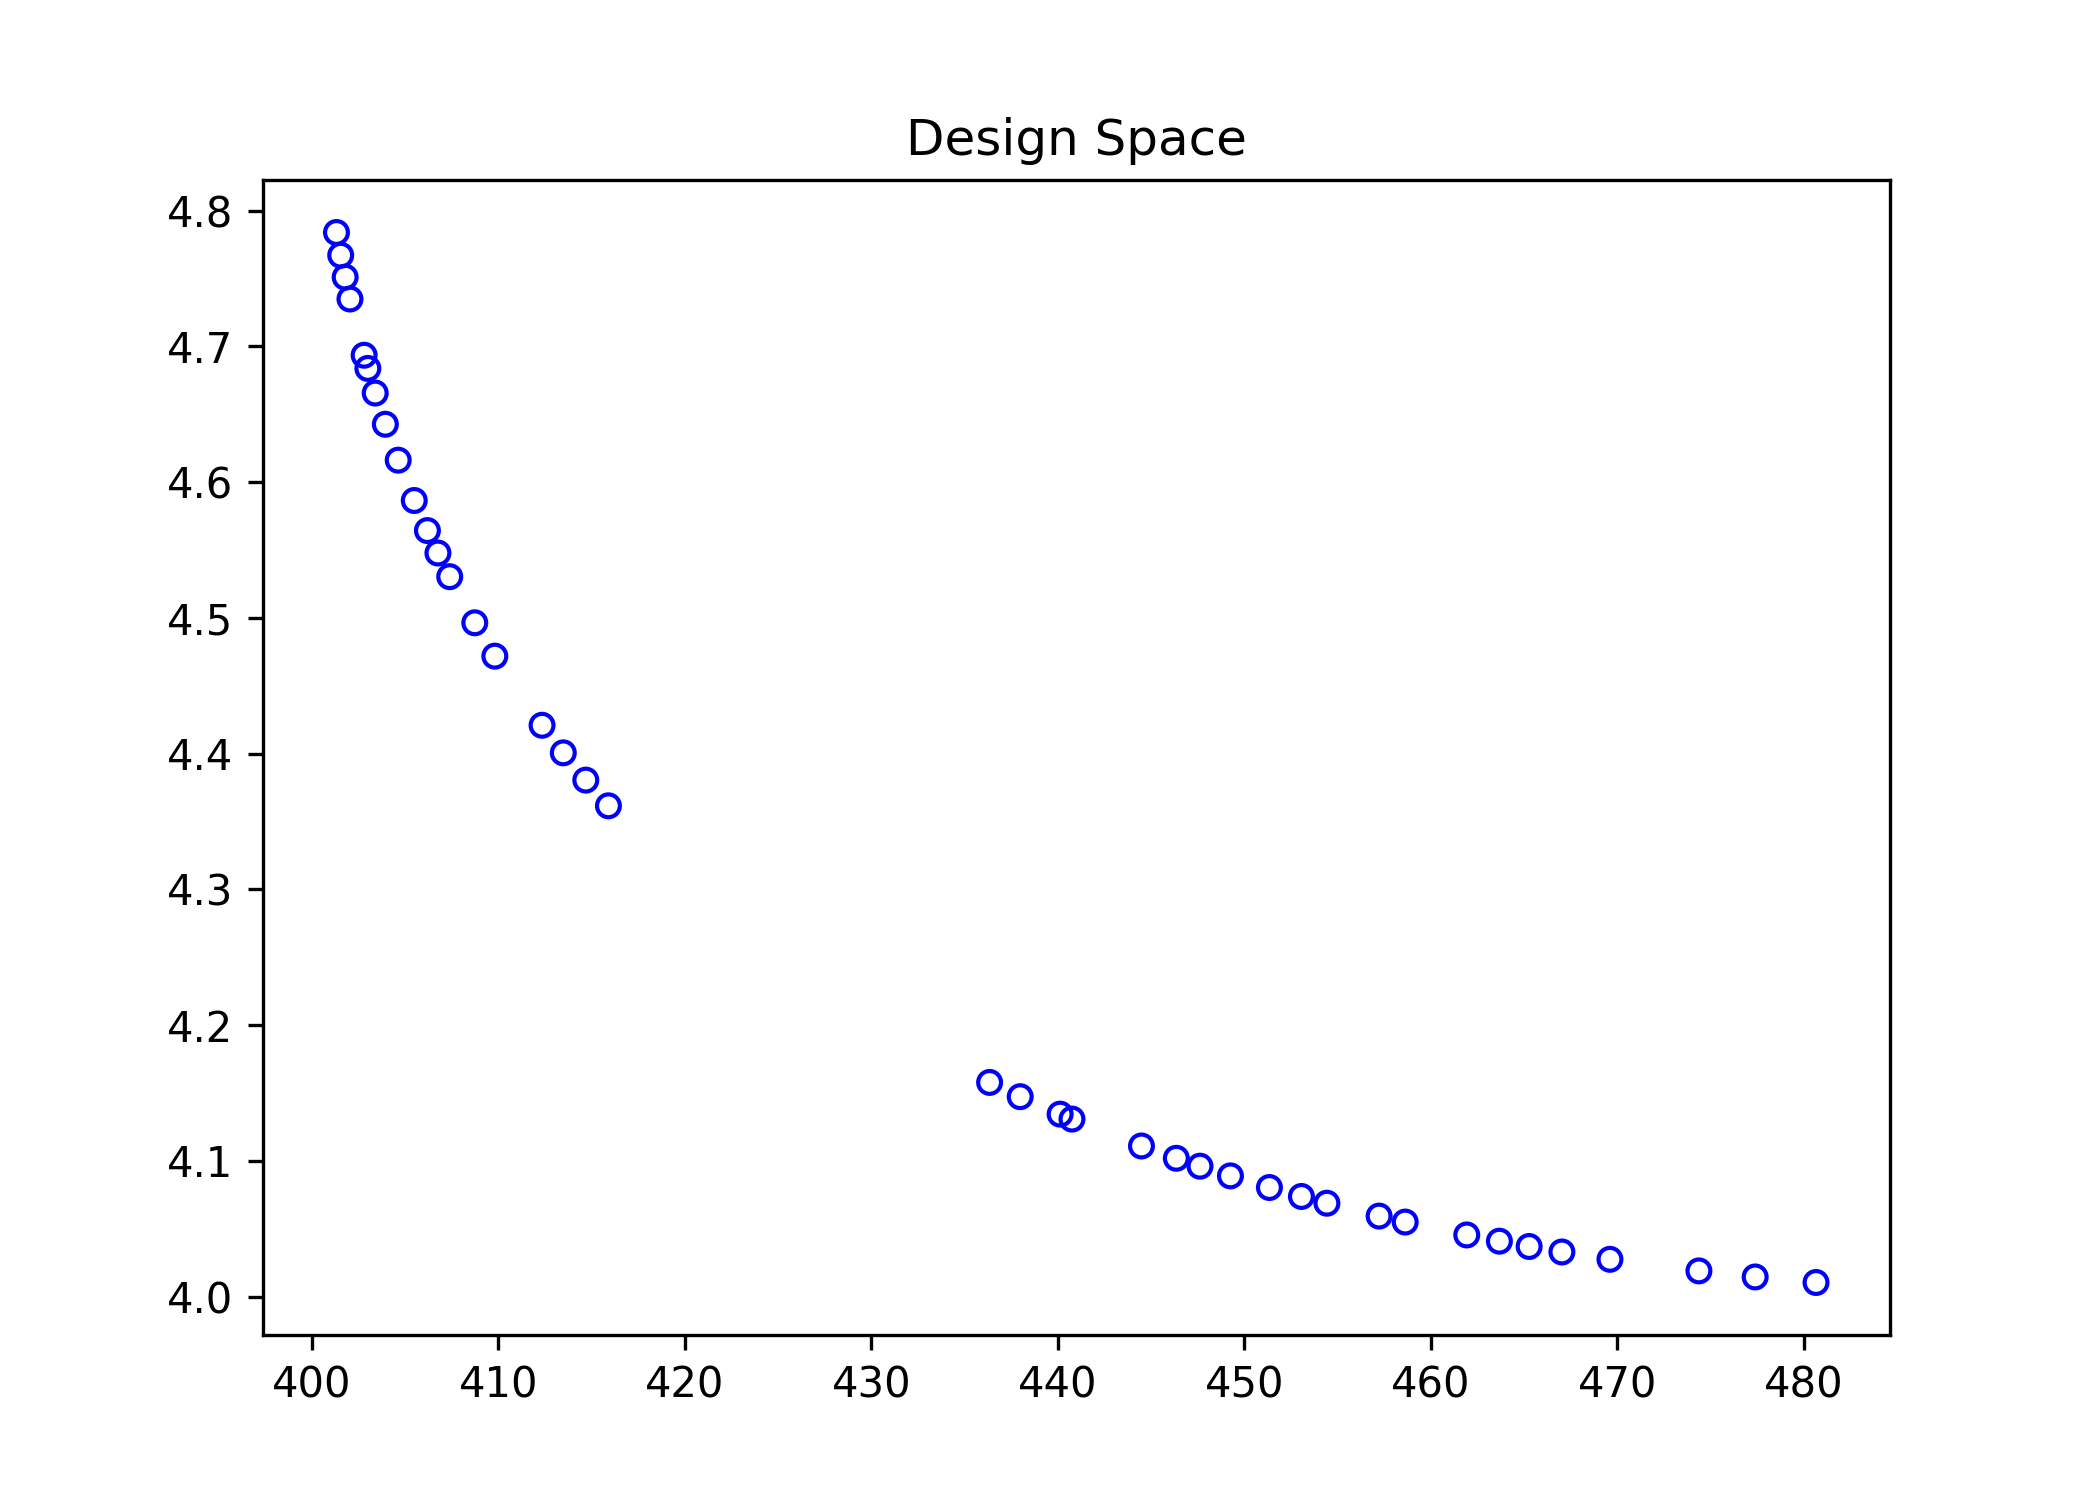
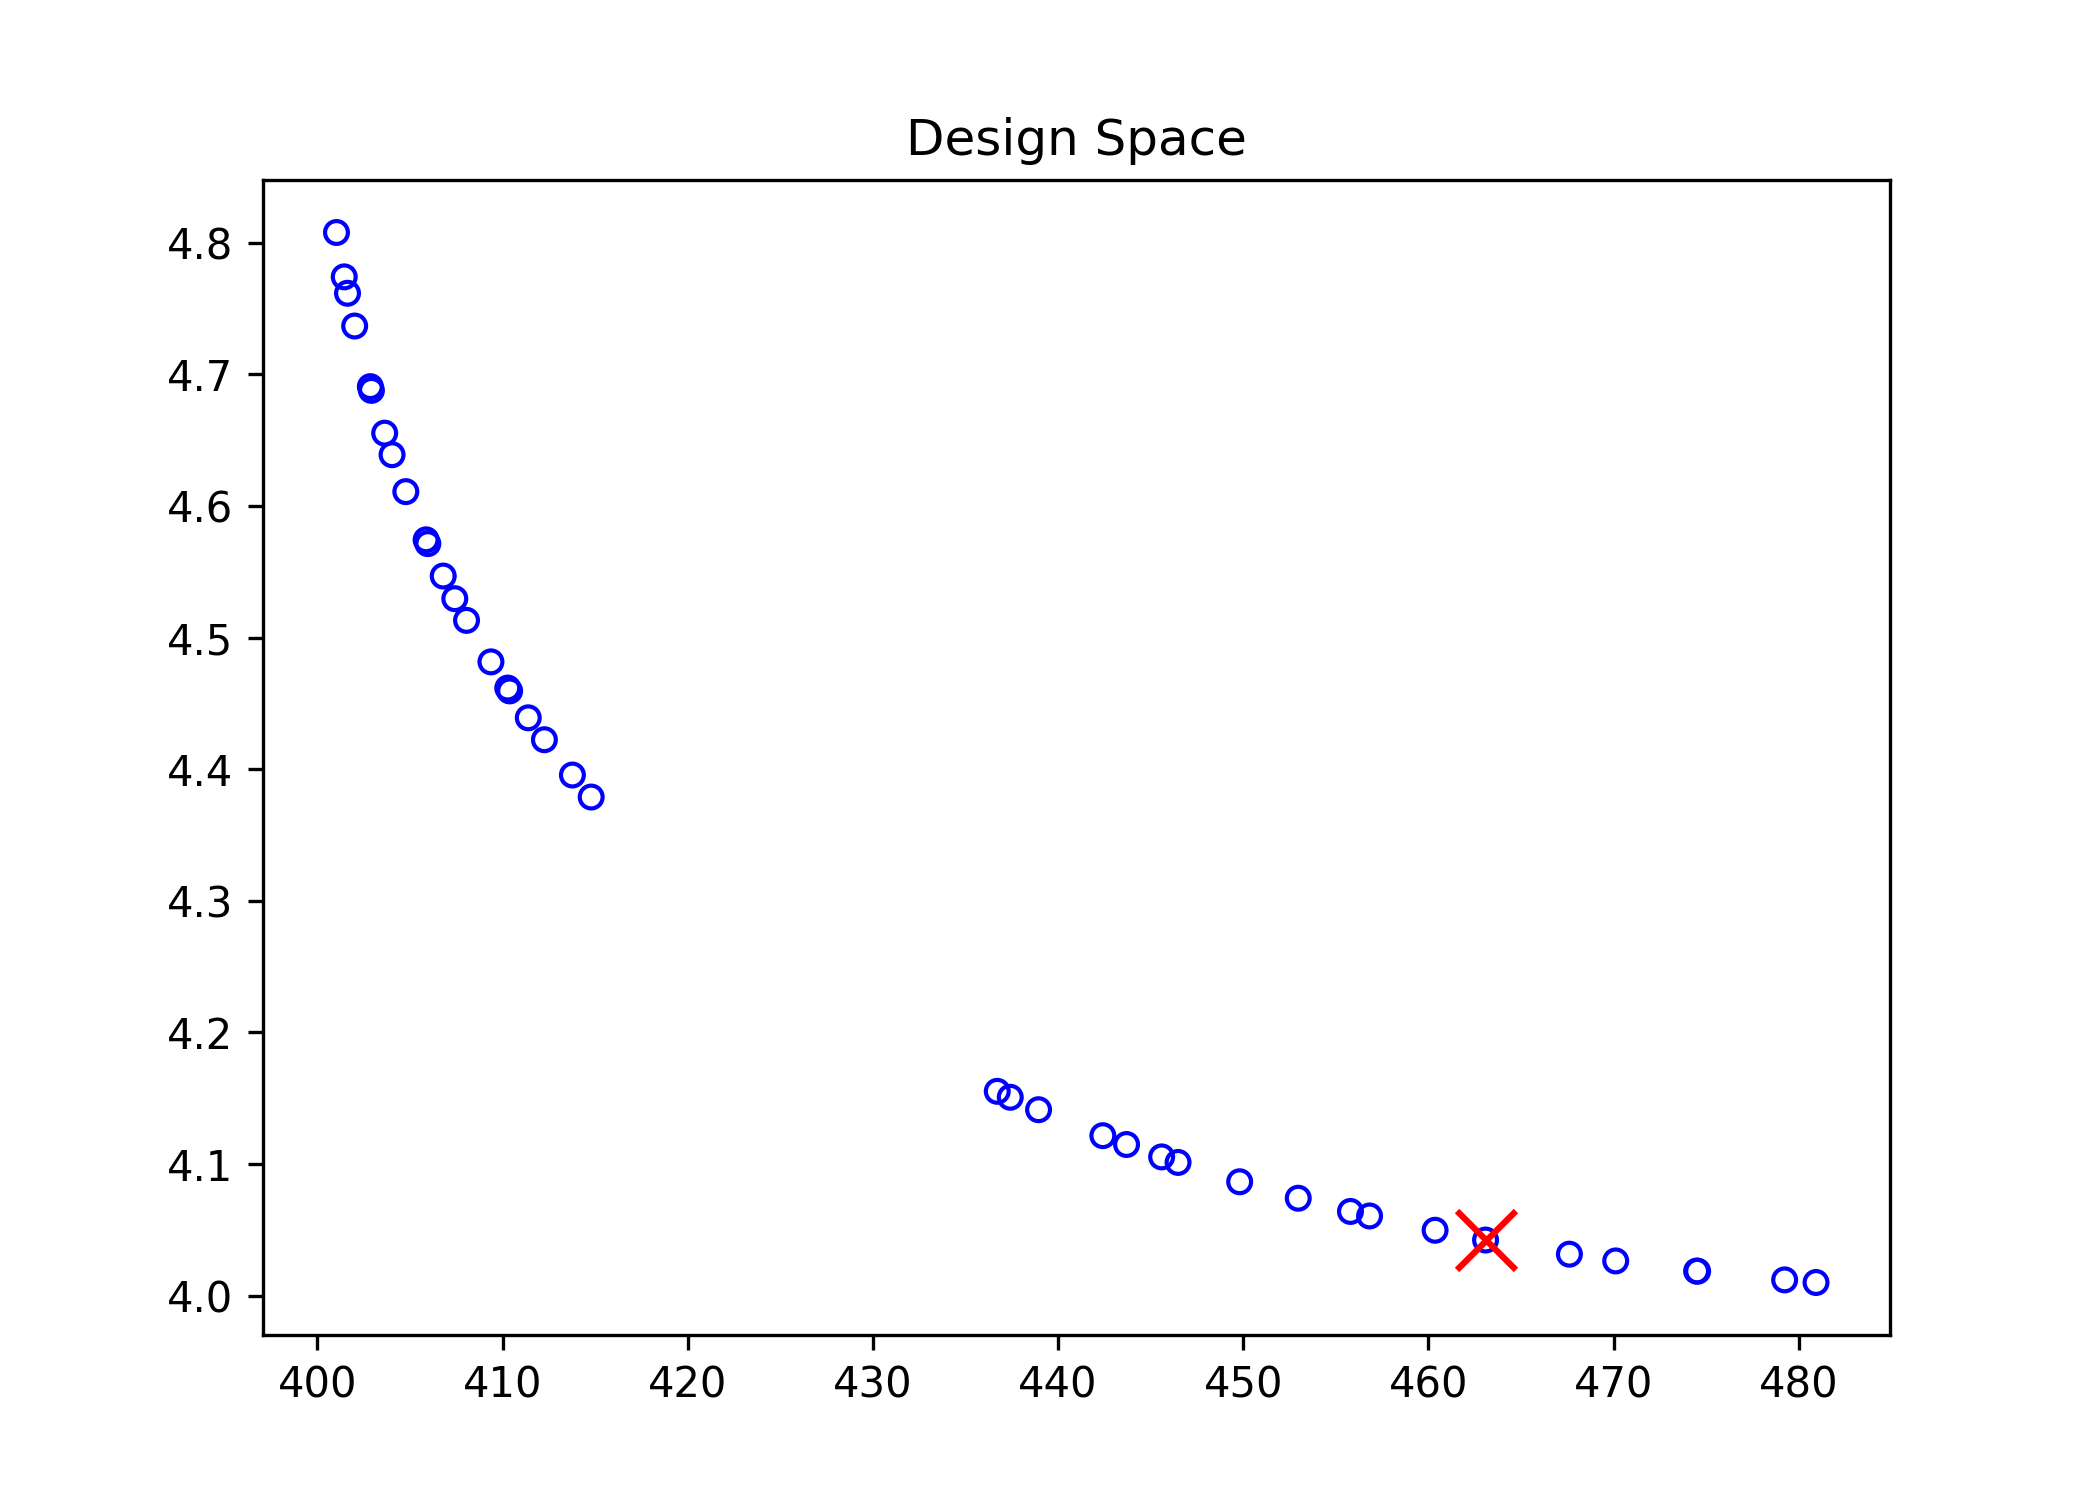
增加readme

diff --git a/step3/multiCriteria1.py b/step3/multiCriteria1.py
@@ -8,7 +8,6 @@ from pymoo.operators.mutation.pm import PM
 from pymoo.operators.sampling.rnd import FloatRandomSampling
 from pymoo.termination import get_termination
 from pymoo.optimize import minimize
-from pymoo.mcdm.pseudo_weights import PseudoWeights
 from pymoo.decomposition.asf import ASF
 
 
@@ -53,8 +52,10 @@ approx_ideal = F.min(axis=0)
 approx_nadir = F.max(axis=0)
 nF = (F - approx_ideal) / (approx_nadir - approx_ideal)
 #ASF（Achievement Scalarizing Function）是一种常用的多目标优化问题
-#的分解方法，它通过引入一个参考点和一个权重向量，将多目标优化问题转化为单目标优化问题，从而简化优化过程
+#的分解方法，它通过引入一个参考点和一个权重向量，将多目标优化问题转化
+#为单目标优化问题，从而简化优化过程
 decomp = ASF()
+
 i = decomp(nF, 1/weights).argmin()
 
 plt.figure(figsize=(7, 5))

diff --git a/step3/multiCriteria2.py b/step3/multiCriteria2.py
@@ -57,7 +57,11 @@ nF = (F - approx_ideal) / (approx_nadir - approx_ideal)
 # 式将多个目标函数合并成一个目标函数，从而简化优化过程
 i = PseudoWeights(weights).do(nF)
 
+
 plt.figure(figsize=(7, 5))
 plt.scatter(F[:, 0], F[:, 1], s=30, facecolors='none', edgecolors='blue')
+plt.scatter(F[i, 0], F[i, 1], marker="x", color="red", s=200)
+
+
 plt.title("Design Space")
 plt.savefig("design_space2.png", dpi=300)
